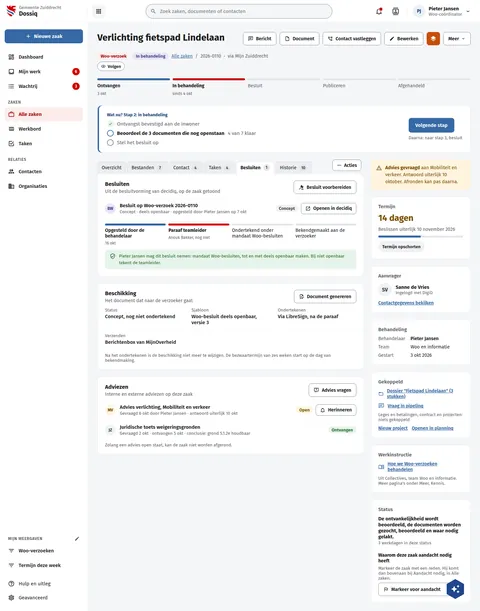
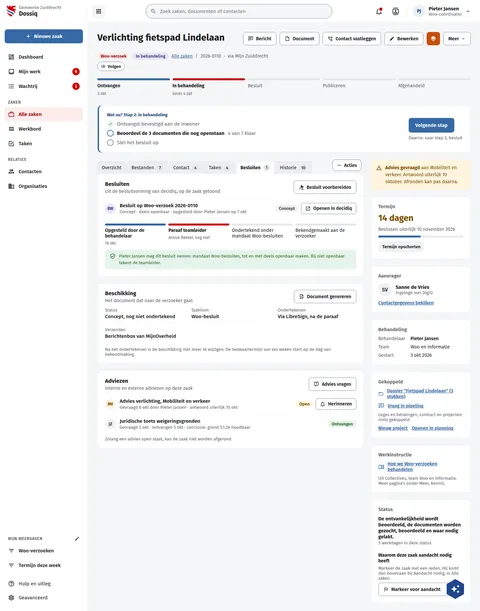
board(dossiq): DqZaakBesluiten names the decision letter's template as the case type declares it
The Beschikking card's Sjabloon reads the template the case type declares for
its decision letter ("Woo-besluit"). The app records no other template on
the letter, and renaming the declaration would mislabel every Woo decision,
so the board draws "Woo-besluit" instead of "Woo-besluit deels openbaar,
versie 3" (r44: Beschikking 261 vs 241.7, Adviezen y -20.1).

Assisted-by: ClaudeCode:claude-opus-5-5

Changed region(s): [[0.2188, 0.5286, 0.6875, 0.7463], [0.5938, 0.6219, 0.75, 0.7152], [0.4688, 0.4975, 0.5312, 0.5286]]

diff --git a/preview/screens/boards/DqZaakBesluiten.html b/preview/screens/boards/DqZaakBesluiten.html
@@ -228,7 +228,7 @@ a{color:var(--sc-primary, #3669a5)}a:hover{color:var(--sc-primary-deep, #234a78)
               <button type="button" aria-haspopup="menu" style="flex: none; align-self: flex-start; margin: 0 8px 8px 0; display: inline-flex; align-items: center; gap: 6px; min-height: 34px; padding: 0 12px; border: 1px solid var(--sc-work-field, #828a95); border-radius: 8px; background: #ffffff; font: 600 14px var(--sc-font, 'Fira Sans'), sans-serif; color: var(--sc-work-ink, #1b1c1d)"><svg width="16" height="16" viewbox="0 0 24 24" fill="currentColor"><path d="M16,12A2,2 0 0,1 18,10A2,2 0 0,1 20,12A2,2 0 0,1 18,14A2,2 0 0,1 16,12M10,12A2,2 0 0,1 12,10A2,2 0 0,1 14,12A2,2 0 0,1 12,14A2,2 0 0,1 10,12M4,12A2,2 0 0,1 6,10A2,2 0 0,1 8,12A2,2 0 0,1 6,14A2,2 0 0,1 4,12Z"></path></svg>Acties</button>
             </div>
             <section aria-label="Besluiten" style="background: #ffffff; border: 1px solid var(--sc-work-line, #e4e6ea); border-radius: 0 12px 12px 12px; padding: 20px 22px; display: flex; flex-direction: column; gap: 12px"><div style="display: flex; flex-wrap: wrap; justify-content: space-between; align-items: flex-start; gap: 10px 16px"><div style="flex: 1 1 260px; min-width: 0; display: flex; flex-direction: column; gap: 3px"><h2 style="margin: 0; font-size: 17px; font-weight: 700">Besluiten</h2><span style="font-size: 14px; color: var(--sc-work-muted, #5e6168)">Uit de besluitvorming van decidiq, op de zaak getoond</span></div><div style="flex: none; display: flex; flex-wrap: wrap; gap: 8px"><button type="button" style="display: inline-flex; align-items: center; gap: 8px; height: 40px; padding: 0 14px; border-radius: 8px; font: 600 14px var(--sc-font, 'Fira Sans'), sans-serif; white-space: nowrap; border: 1px solid var(--sc-work-field, #828a95); background: #ffffff; color: var(--sc-work-ink, #1b1c1d)"><svg width="16" height="16" viewbox="0 0 24 24" fill="currentColor" aria-hidden="true"><path d="M2.3,20.28L11.9,10.68L10.5,9.26L9.78,9.97C9.39,10.36 8.76,10.36 8.37,9.97L7.66,9.26C7.27,8.87 7.27,8.24 7.66,7.85L13.32,2.19C13.71,1.8 14.34,1.8 14.73,2.19L15.44,2.9C15.83,3.29 15.83,3.92 15.44,4.31L14.73,5L16.15,6.43C16.54,6.04 17.17,6.04 17.56,6.43C17.95,6.82 17.95,7.46 17.56,7.85L18.97,9.26L19.68,8.55C20.07,8.16 20.71,8.16 21.1,8.55L21.8,9.26C22.19,9.65 22.19,10.29 21.8,10.68L16.15,16.33C15.76,16.72 15.12,16.72 14.73,16.33L14.03,15.63C13.63,15.24 13.63,14.6 14.03,14.21L14.73,13.5L13.32,12.09L3.71,21.7C3.32,22.09 2.69,22.09 2.3,21.7C1.91,21.31 1.91,20.67 2.3,20.28M20,19A2,2 0 0,1 22,21V22H12V21A2,2 0 0,1 14,19H20Z"></path></svg>Besluit voorbereiden</button></div></div><ul style="margin: 0; padding: 0; list-style: none; display: flex; flex-direction: column"><li style="display: flex; flex-wrap: wrap; gap: 8px 16px; align-items: center; padding: 12px 0; border-top: 1px solid var(--sc-work-soft, #eef0f3)"><span style="flex: 1 1 260px; min-width: 0; display: flex; gap: 12px; align-items: center"><span aria-hidden="true" style="width: 32px; height: 32px; flex: none; border-radius: 16px; background: #e8e6f6; color: #4a3f8f; display: inline-flex; align-items: center; justify-content: center; font-size: 12px; font-weight: 700">BW</span><span style="display: flex; flex-direction: column; gap: 2px; min-width: 0"><strong style="font-size: 15px; font-weight: 600">Besluit op Woo-verzoek 2026-0110</strong><span style="font-size: 13px; color: var(--sc-work-muted, #5e6168)">Concept · deels openbaar · opgesteld door Pieter Jansen op 7 okt</span></span></span><span style="flex: none; display: flex; flex-wrap: wrap; gap: 8px; align-items: center"><span style="display: inline-block; padding: 3px 10px; border-radius: 12px; background: var(--sc-work-chip, #f0f1f3); color: var(--sc-work-text, #3d4047); font-size: 13px; font-weight: 600; white-space: nowrap">Concept</span><button type="button" style="display: inline-flex; align-items: center; gap: 8px; height: 34px; padding: 0 12px; border-radius: 8px; font: 600 14px var(--sc-font, 'Fira Sans'), sans-serif; white-space: nowrap; border: 1px solid var(--sc-work-field, #828a95); background: #ffffff; color: var(--sc-work-ink, #1b1c1d)"><svg width="16" height="16" viewbox="0 0 24 24" fill="currentColor" aria-hidden="true"><path d="M14,3V5H17.59L7.76,14.83L9.17,16.24L19,6.41V10H21V3M19,19H5V5H12V3H5C3.89,3 3,3.9 3,5V19A2,2 0 0,0 5,21H19A2,2 0 0,0 21,19V12H19V19Z"></path></svg>Openen in decidiq</button></span></li></ul><ol aria-label="Route van het besluit" style="margin: 4px 0 0; padding: 0; list-style: none; display: grid; grid-template-columns: repeat(auto-fit, minmax(150px, 1fr)); gap: 8px"><li style="display: flex; flex-direction: column; gap: 6px"><span style="height: 6px; border-radius: 3px; background: var(--sc-primary, #3669a5)"></span><span style="font-size: 14px; font-weight: 600">Opgesteld door de behandelaar</span><span style="font-size: 12px; color: var(--sc-work-muted, #5e6168)">16 okt</span></li><li style="display: flex; flex-direction: column; gap: 6px"><span style="height: 6px; border-radius: 3px; background: var(--sc-accent, #cc0000)"></span><span style="font-size: 14px; font-weight: 700">Paraaf teamleider</span><span style="font-size: 12px; color: var(--sc-work-muted, #5e6168)">Anouk Bakker, nog niet</span></li><li style="display: flex; flex-direction: column; gap: 6px"><span style="height: 6px; border-radius: 3px; background: var(--sc-work-line, #e4e6ea)"></span><span style="font-size: 14px; font-weight: 400">Ondertekend onder mandaat Woo-besluiten</span></li><li style="display: flex; flex-direction: column; gap: 6px"><span style="height: 6px; border-radius: 3px; background: var(--sc-work-line, #e4e6ea)"></span><span style="font-size: 14px; font-weight: 400">Bekendgemaakt aan de verzoeker</span></li></ol><div style="display: flex; gap: 10px; align-items: flex-start; padding: 10px 14px; border-radius: 10px; background: #e7f3ea; color: #1e6b2a; font-size: 13px; line-height: 1.5"><svg width="18" height="18" viewbox="0 0 24 24" fill="currentColor" aria-hidden="true" style="flex: none; margin-top: 1px"><path d="M21,11C21,16.55 17.16,21.74 12,23C6.84,21.74 3,16.55 3,11V5L12,1L21,5V11M12,21C15.75,20 19,15.54 19,11.22V6.3L12,3.18L5,6.3V11.22C5,15.54 8.25,20 12,21M10,17L6,13L7.41,11.59L10,14.17L16.59,7.58L18,9"></path></svg><span>Pieter Jansen mag dit besluit nemen: mandaat Woo-besluiten, tot en met deels openbaar maken. Bij niet openbaar tekent de teamleider.</span></div></section>
-            <section style="background: #ffffff; border: 1px solid var(--sc-work-line, #e4e6ea); border-radius: 12px; padding: 20px 22px; display: flex; flex-direction: column; gap: 12px"><div style="display: flex; flex-wrap: wrap; justify-content: space-between; align-items: flex-start; gap: 10px 16px"><div style="flex: 1 1 260px; min-width: 0; display: flex; flex-direction: column; gap: 3px"><h2 style="margin: 0; font-size: 17px; font-weight: 700">Beschikking</h2><span style="font-size: 14px; color: var(--sc-work-muted, #5e6168)">Het document dat naar de verzoeker gaat</span></div><div style="flex: none; display: flex; flex-wrap: wrap; gap: 8px"><button type="button" style="display: inline-flex; align-items: center; gap: 8px; height: 40px; padding: 0 14px; border-radius: 8px; font: 600 14px var(--sc-font, 'Fira Sans'), sans-serif; white-space: nowrap; border: 1px solid var(--sc-work-field, #828a95); background: #ffffff; color: var(--sc-work-ink, #1b1c1d)"><svg width="16" height="16" viewbox="0 0 24 24" fill="currentColor" aria-hidden="true"><path d="M8,12H16V14H8V12M10,20H6V4H13V9H18V12.1L20,10.1V8L14,2H6A2,2 0 0,0 4,4V20A2,2 0 0,0 6,22H10V20M8,18H12.1L13,17.1V16H8V18M20.2,13C20.3,13 20.5,13.1 20.6,13.2L21.9,14.5C22.1,14.7 22.1,15.1 21.9,15.3L20.9,16.3L18.8,14.2L19.8,13.2C19.9,13.1 20,13 20.2,13M20.2,16.9L14.1,23H12V20.9L18.1,14.8L20.2,16.9Z"></path></svg>Document genereren</button></div></div><dl style="margin: 0; display: grid; grid-template-columns: repeat(auto-fit, minmax(200px, 1fr)); gap: 12px 24px; font-size: 15px"><div style="display: flex; flex-direction: column; gap: 3px; padding-bottom: 10px; border-bottom: 1px solid var(--sc-work-soft, #eef0f3)"><dt style="font-size: 13px; color: var(--sc-work-muted, #5e6168)">Status</dt><dd style="margin: 0; font-weight: 500">Concept, nog niet ondertekend</dd></div><div style="display: flex; flex-direction: column; gap: 3px; padding-bottom: 10px; border-bottom: 1px solid var(--sc-work-soft, #eef0f3)"><dt style="font-size: 13px; color: var(--sc-work-muted, #5e6168)">Sjabloon</dt><dd style="margin: 0; font-weight: 500">Woo-besluit deels openbaar, versie 3</dd></div><div style="display: flex; flex-direction: column; gap: 3px; padding-bottom: 10px; border-bottom: 1px solid var(--sc-work-soft, #eef0f3)"><dt style="font-size: 13px; color: var(--sc-work-muted, #5e6168)">Ondertekenen</dt><dd style="margin: 0; font-weight: 500">Via LibreSign, na de paraaf</dd></div><div style="display: flex; flex-direction: column; gap: 3px; padding-bottom: 10px; border-bottom: 1px solid var(--sc-work-soft, #eef0f3)"><dt style="font-size: 13px; color: var(--sc-work-muted, #5e6168)">Verzenden</dt><dd style="margin: 0; font-weight: 500">Berichtenbox van MijnOverheid</dd></div></dl><span style="font-size: 13px; color: var(--sc-work-muted, #5e6168)">Na het ondertekenen is de beschikking niet meer te wijzigen. De bezwaartermijn van zes weken start op de dag van bekendmaking.</span></section>
+            <section style="background: #ffffff; border: 1px solid var(--sc-work-line, #e4e6ea); border-radius: 12px; padding: 20px 22px; display: flex; flex-direction: column; gap: 12px"><div style="display: flex; flex-wrap: wrap; justify-content: space-between; align-items: flex-start; gap: 10px 16px"><div style="flex: 1 1 260px; min-width: 0; display: flex; flex-direction: column; gap: 3px"><h2 style="margin: 0; font-size: 17px; font-weight: 700">Beschikking</h2><span style="font-size: 14px; color: var(--sc-work-muted, #5e6168)">Het document dat naar de verzoeker gaat</span></div><div style="flex: none; display: flex; flex-wrap: wrap; gap: 8px"><button type="button" style="display: inline-flex; align-items: center; gap: 8px; height: 40px; padding: 0 14px; border-radius: 8px; font: 600 14px var(--sc-font, 'Fira Sans'), sans-serif; white-space: nowrap; border: 1px solid var(--sc-work-field, #828a95); background: #ffffff; color: var(--sc-work-ink, #1b1c1d)"><svg width="16" height="16" viewbox="0 0 24 24" fill="currentColor" aria-hidden="true"><path d="M8,12H16V14H8V12M10,20H6V4H13V9H18V12.1L20,10.1V8L14,2H6A2,2 0 0,0 4,4V20A2,2 0 0,0 6,22H10V20M8,18H12.1L13,17.1V16H8V18M20.2,13C20.3,13 20.5,13.1 20.6,13.2L21.9,14.5C22.1,14.7 22.1,15.1 21.9,15.3L20.9,16.3L18.8,14.2L19.8,13.2C19.9,13.1 20,13 20.2,13M20.2,16.9L14.1,23H12V20.9L18.1,14.8L20.2,16.9Z"></path></svg>Document genereren</button></div></div><dl style="margin: 0; display: grid; grid-template-columns: repeat(auto-fit, minmax(200px, 1fr)); gap: 12px 24px; font-size: 15px"><div style="display: flex; flex-direction: column; gap: 3px; padding-bottom: 10px; border-bottom: 1px solid var(--sc-work-soft, #eef0f3)"><dt style="font-size: 13px; color: var(--sc-work-muted, #5e6168)">Status</dt><dd style="margin: 0; font-weight: 500">Concept, nog niet ondertekend</dd></div><div style="display: flex; flex-direction: column; gap: 3px; padding-bottom: 10px; border-bottom: 1px solid var(--sc-work-soft, #eef0f3)"><dt style="font-size: 13px; color: var(--sc-work-muted, #5e6168)">Sjabloon</dt><dd style="margin: 0; font-weight: 500">Woo-besluit</dd></div><div style="display: flex; flex-direction: column; gap: 3px; padding-bottom: 10px; border-bottom: 1px solid var(--sc-work-soft, #eef0f3)"><dt style="font-size: 13px; color: var(--sc-work-muted, #5e6168)">Ondertekenen</dt><dd style="margin: 0; font-weight: 500">Via LibreSign, na de paraaf</dd></div><div style="display: flex; flex-direction: column; gap: 3px; padding-bottom: 10px; border-bottom: 1px solid var(--sc-work-soft, #eef0f3)"><dt style="font-size: 13px; color: var(--sc-work-muted, #5e6168)">Verzenden</dt><dd style="margin: 0; font-weight: 500">Berichtenbox van MijnOverheid</dd></div></dl><span style="font-size: 13px; color: var(--sc-work-muted, #5e6168)">Na het ondertekenen is de beschikking niet meer te wijzigen. De bezwaartermijn van zes weken start op de dag van bekendmaking.</span></section>
             <section style="background: #ffffff; border: 1px solid var(--sc-work-line, #e4e6ea); border-radius: 12px; padding: 20px 22px; display: flex; flex-direction: column; gap: 8px"><div style="display: flex; flex-wrap: wrap; justify-content: space-between; align-items: flex-start; gap: 10px 16px"><div style="flex: 1 1 260px; min-width: 0; display: flex; flex-direction: column; gap: 3px"><h2 style="margin: 0; font-size: 17px; font-weight: 700">Adviezen</h2><span style="font-size: 14px; color: var(--sc-work-muted, #5e6168)">Interne en externe adviezen op deze zaak</span></div><div style="flex: none; display: flex; flex-wrap: wrap; gap: 8px"><button type="button" style="display: inline-flex; align-items: center; gap: 8px; height: 40px; padding: 0 14px; border-radius: 8px; font: 600 14px var(--sc-font, 'Fira Sans'), sans-serif; white-space: nowrap; border: 1px solid var(--sc-work-field, #828a95); background: #ffffff; color: var(--sc-work-ink, #1b1c1d)"><svg width="16" height="16" viewbox="0 0 24 24" fill="currentColor" aria-hidden="true"><path d="M4,2A2,2 0 0,0 2,4V16A2,2 0 0,0 4,18H8V21A1,1 0 0,0 9,22H9.5V22C9.75,22 10,21.9 10.2,21.71L13.9,18H20A2,2 0 0,0 22,16V4C22,2.89 21.1,2 20,2H4M4,4H20V16H13.08L10,19.08V16H4V4M12.19,5.5C11.3,5.5 10.59,5.68 10.05,6.04C9.5,6.4 9.22,7 9.27,7.69C0.21,7.69 6.57,7.69 11.24,7.69C11.24,7.41 11.34,7.2 11.5,7.06C11.7,6.92 11.92,6.85 12.19,6.85C12.5,6.85 12.77,6.93 12.95,7.11C13.13,7.28 13.22,7.5 13.22,7.8C13.22,8.08 13.14,8.33 13,8.54C12.83,8.76 12.62,8.94 12.36,9.08C11.84,9.4 11.5,9.68 11.29,9.92C11.1,10.16 11,10.5 11,11H13C13,10.72 13.05,10.5 13.14,10.32C13.23,10.15 13.4,10 13.66,9.85C14.12,9.64 14.5,9.36 14.79,9C15.08,8.63 15.23,8.24 15.23,7.8C15.23,7.1 14.96,6.54 14.42,6.12C13.88,5.71 13.13,5.5 12.19,5.5M11,12V14H13V12H11Z"></path></svg>Advies vragen</button></div></div><ul style="margin: 0; padding: 0; list-style: none; display: flex; flex-direction: column"><li style="display: flex; flex-wrap: wrap; gap: 8px 16px; align-items: center; padding: 12px 0; border-top: 1px solid var(--sc-work-soft, #eef0f3)"><span style="flex: 1 1 260px; min-width: 0; display: flex; gap: 12px; align-items: center"><span aria-hidden="true" style="width: 32px; height: 32px; flex: none; border-radius: 16px; background: #fff4de; color: #7a4f00; display: inline-flex; align-items: center; justify-content: center; font-size: 12px; font-weight: 700">MV</span><span style="display: flex; flex-direction: column; gap: 2px; min-width: 0"><strong style="font-size: 15px; font-weight: 600">Advies verlichting, Mobiliteit en verkeer</strong><span style="font-size: 13px; color: var(--sc-work-muted, #5e6168)">Gevraagd 6 okt door Pieter Jansen · antwoord uiterlijk 10 okt</span></span></span><span style="flex: none; display: flex; flex-wrap: wrap; gap: 8px; align-items: center"><span style="display: inline-block; padding: 3px 10px; border-radius: 12px; background: #fff4de; color: #7a4f00; font-size: 13px; font-weight: 600; white-space: nowrap">Open</span><button type="button" style="display: inline-flex; align-items: center; gap: 8px; height: 34px; padding: 0 12px; border-radius: 8px; font: 600 14px var(--sc-font, 'Fira Sans'), sans-serif; white-space: nowrap; border: 1px solid var(--sc-work-field, #828a95); background: #ffffff; color: var(--sc-work-ink, #1b1c1d)"><svg width="16" height="16" viewbox="0 0 24 24" fill="currentColor" aria-hidden="true"><path d="M10 21H14C14 22.1 13.1 23 12 23S10 22.1 10 21M21 19V20H3V19L5 17V11C5 7.9 7 5.2 10 4.3V4C10 2.9 10.9 2 12 2S14 2.9 14 4V4.3C17 5.2 19 7.9 19 11V17L21 19M17 11C17 8.2 14.8 6 12 6S7 8.2 7 11V18H17V11Z"></path></svg>Herinneren</button></span></li><li style="display: flex; flex-wrap: wrap; gap: 8px 16px; align-items: center; padding: 12px 0; border-top: 1px solid var(--sc-work-soft, #eef0f3)"><span style="flex: 1 1 260px; min-width: 0; display: flex; gap: 12px; align-items: center"><span aria-hidden="true" style="width: 32px; height: 32px; flex: none; border-radius: 16px; background: var(--sc-work-chip, #f0f1f3); color: var(--sc-work-text, #3d4047); display: inline-flex; align-items: center; justify-content: center; font-size: 12px; font-weight: 700">JZ</span><span style="display: flex; flex-direction: column; gap: 2px; min-width: 0"><strong style="font-size: 15px; font-weight: 600">Juridische toets weigeringsgronden</strong><span style="font-size: 13px; color: var(--sc-work-muted, #5e6168)">Gevraagd 2 okt · ontvangen 5 okt · conclusie: grond 5.1.2e houdbaar</span></span></span><span style="flex: none; display: flex; flex-wrap: wrap; gap: 8px; align-items: center"><span style="display: inline-block; padding: 3px 10px; border-radius: 12px; background: #e7f3ea; color: #1e6b2a; font-size: 13px; font-weight: 600; white-space: nowrap">Ontvangen</span></span></li></ul><span style="font-size: 13px; color: var(--sc-work-muted, #5e6168)">Zolang een advies open staat, kan de zaak niet worden afgerond.</span></section>
           </div>
 

diff --git a/screens-src/zuiddrecht/DqZaakBesluiten.dc.html b/screens-src/zuiddrecht/DqZaakBesluiten.dc.html
@@ -76,7 +76,7 @@ a{color:#3669a5}a:hover{color:#234a78}
               <button type="button" aria-haspopup="menu" style="flex: none; align-self: flex-start; margin: 0 8px 8px 0; display: inline-flex; align-items: center; gap: 6px; min-height: 34px; padding: 0 12px; border: 1px solid #828a95; border-radius: 8px; background: #ffffff; font: 600 14px 'Fira Sans', sans-serif; color: #1b1c1d"><svg width="16" height="16" viewBox="0 0 24 24" fill="currentColor"><path d="M16,12A2,2 0 0,1 18,10A2,2 0 0,1 20,12A2,2 0 0,1 18,14A2,2 0 0,1 16,12M10,12A2,2 0 0,1 12,10A2,2 0 0,1 14,12A2,2 0 0,1 12,14A2,2 0 0,1 10,12M4,12A2,2 0 0,1 6,10A2,2 0 0,1 8,12A2,2 0 0,1 6,14A2,2 0 0,1 4,12Z"></path></svg>Acties</button>
             </div>
             <section aria-label="Besluiten" style="background: #ffffff; border: 1px solid #e4e6ea; border-radius: 0 12px 12px 12px; padding: 20px 22px; display: flex; flex-direction: column; gap: 12px"><div style="display: flex; flex-wrap: wrap; justify-content: space-between; align-items: flex-start; gap: 10px 16px"><div style="flex: 1 1 260px; min-width: 0; display: flex; flex-direction: column; gap: 3px"><h2 style="margin: 0; font-size: 17px; font-weight: 700">Besluiten</h2><span style="font-size: 14px; color: #5e6168">Uit de besluitvorming van decidiq, op de zaak getoond</span></div><div style="flex: none; display: flex; flex-wrap: wrap; gap: 8px"><button type="button" style="display: inline-flex; align-items: center; gap: 8px; height: 40px; padding: 0 14px; border-radius: 8px; font: 600 14px 'Fira Sans', sans-serif; white-space: nowrap; border: 1px solid #828a95; background: #ffffff; color: #1b1c1d"><svg width="16" height="16" viewBox="0 0 24 24" fill="currentColor" aria-hidden="true"><path d="M2.3,20.28L11.9,10.68L10.5,9.26L9.78,9.97C9.39,10.36 8.76,10.36 8.37,9.97L7.66,9.26C7.27,8.87 7.27,8.24 7.66,7.85L13.32,2.19C13.71,1.8 14.34,1.8 14.73,2.19L15.44,2.9C15.83,3.29 15.83,3.92 15.44,4.31L14.73,5L16.15,6.43C16.54,6.04 17.17,6.04 17.56,6.43C17.95,6.82 17.95,7.46 17.56,7.85L18.97,9.26L19.68,8.55C20.07,8.16 20.71,8.16 21.1,8.55L21.8,9.26C22.19,9.65 22.19,10.29 21.8,10.68L16.15,16.33C15.76,16.72 15.12,16.72 14.73,16.33L14.03,15.63C13.63,15.24 13.63,14.6 14.03,14.21L14.73,13.5L13.32,12.09L3.71,21.7C3.32,22.09 2.69,22.09 2.3,21.7C1.91,21.31 1.91,20.67 2.3,20.28M20,19A2,2 0 0,1 22,21V22H12V21A2,2 0 0,1 14,19H20Z"></path></svg>Besluit voorbereiden</button></div></div><ul style="margin: 0; padding: 0; list-style: none; display: flex; flex-direction: column"><li style="display: flex; flex-wrap: wrap; gap: 8px 16px; align-items: center; padding: 12px 0; border-top: 1px solid #eef0f3"><span style="flex: 1 1 260px; min-width: 0; display: flex; gap: 12px; align-items: center"><span aria-hidden="true" style="width: 32px; height: 32px; flex: none; border-radius: 16px; background: #e8e6f6; color: #4a3f8f; display: inline-flex; align-items: center; justify-content: center; font-size: 12px; font-weight: 700">BW</span><span style="display: flex; flex-direction: column; gap: 2px; min-width: 0"><strong style="font-size: 15px; font-weight: 600">Besluit op Woo-verzoek 2026-0110</strong><span style="font-size: 13px; color: #5e6168">Concept · deels openbaar · opgesteld door Pieter Jansen op 7 okt</span></span></span><span style="flex: none; display: flex; flex-wrap: wrap; gap: 8px; align-items: center"><span style="display: inline-block; padding: 3px 10px; border-radius: 12px; background: #f0f1f3; color: #3d4047; font-size: 13px; font-weight: 600; white-space: nowrap">Concept</span><button type="button" style="display: inline-flex; align-items: center; gap: 8px; height: 34px; padding: 0 12px; border-radius: 8px; font: 600 14px 'Fira Sans', sans-serif; white-space: nowrap; border: 1px solid #828a95; background: #ffffff; color: #1b1c1d"><svg width="16" height="16" viewBox="0 0 24 24" fill="currentColor" aria-hidden="true"><path d="M14,3V5H17.59L7.76,14.83L9.17,16.24L19,6.41V10H21V3M19,19H5V5H12V3H5C3.89,3 3,3.9 3,5V19A2,2 0 0,0 5,21H19A2,2 0 0,0 21,19V12H19V19Z"></path></svg>Openen in decidiq</button></span></li></ul><ol aria-label="Route van het besluit" style="margin: 4px 0 0; padding: 0; list-style: none; display: grid; grid-template-columns: repeat(auto-fit, minmax(150px, 1fr)); gap: 8px"><li style="display: flex; flex-direction: column; gap: 6px"><span style="height: 6px; border-radius: 3px; background: #3669a5"></span><span style="font-size: 14px; font-weight: 600">Opgesteld door de behandelaar</span><span style="font-size: 12px; color: #5e6168">16 okt</span></li><li style="display: flex; flex-direction: column; gap: 6px"><span style="height: 6px; border-radius: 3px; background: #cc0000"></span><span style="font-size: 14px; font-weight: 700">Paraaf teamleider</span><span style="font-size: 12px; color: #5e6168">Anouk Bakker, nog niet</span></li><li style="display: flex; flex-direction: column; gap: 6px"><span style="height: 6px; border-radius: 3px; background: #e4e6ea"></span><span style="font-size: 14px; font-weight: 400">Ondertekend onder mandaat Woo-besluiten</span></li><li style="display: flex; flex-direction: column; gap: 6px"><span style="height: 6px; border-radius: 3px; background: #e4e6ea"></span><span style="font-size: 14px; font-weight: 400">Bekendgemaakt aan de verzoeker</span></li></ol><div style="display: flex; gap: 10px; align-items: flex-start; padding: 10px 14px; border-radius: 10px; background: #e7f3ea; color: #1e6b2a; font-size: 13px; line-height: 1.5"><svg width="18" height="18" viewBox="0 0 24 24" fill="currentColor" aria-hidden="true" style="flex: none; margin-top: 1px"><path d="M21,11C21,16.55 17.16,21.74 12,23C6.84,21.74 3,16.55 3,11V5L12,1L21,5V11M12,21C15.75,20 19,15.54 19,11.22V6.3L12,3.18L5,6.3V11.22C5,15.54 8.25,20 12,21M10,17L6,13L7.41,11.59L10,14.17L16.59,7.58L18,9"></path></svg><span>Pieter Jansen mag dit besluit nemen: mandaat Woo-besluiten, tot en met deels openbaar maken. Bij niet openbaar tekent de teamleider.</span></div></section>
-            <section style="background: #ffffff; border: 1px solid #e4e6ea; border-radius: 12px; padding: 20px 22px; display: flex; flex-direction: column; gap: 12px"><div style="display: flex; flex-wrap: wrap; justify-content: space-between; align-items: flex-start; gap: 10px 16px"><div style="flex: 1 1 260px; min-width: 0; display: flex; flex-direction: column; gap: 3px"><h2 style="margin: 0; font-size: 17px; font-weight: 700">Beschikking</h2><span style="font-size: 14px; color: #5e6168">Het document dat naar de verzoeker gaat</span></div><div style="flex: none; display: flex; flex-wrap: wrap; gap: 8px"><button type="button" style="display: inline-flex; align-items: center; gap: 8px; height: 40px; padding: 0 14px; border-radius: 8px; font: 600 14px 'Fira Sans', sans-serif; white-space: nowrap; border: 1px solid #828a95; background: #ffffff; color: #1b1c1d"><svg width="16" height="16" viewBox="0 0 24 24" fill="currentColor" aria-hidden="true"><path d="M8,12H16V14H8V12M10,20H6V4H13V9H18V12.1L20,10.1V8L14,2H6A2,2 0 0,0 4,4V20A2,2 0 0,0 6,22H10V20M8,18H12.1L13,17.1V16H8V18M20.2,13C20.3,13 20.5,13.1 20.6,13.2L21.9,14.5C22.1,14.7 22.1,15.1 21.9,15.3L20.9,16.3L18.8,14.2L19.8,13.2C19.9,13.1 20,13 20.2,13M20.2,16.9L14.1,23H12V20.9L18.1,14.8L20.2,16.9Z"></path></svg>Document genereren</button></div></div><dl style="margin: 0; display: grid; grid-template-columns: repeat(auto-fit, minmax(200px, 1fr)); gap: 12px 24px; font-size: 15px"><div style="display: flex; flex-direction: column; gap: 3px; padding-bottom: 10px; border-bottom: 1px solid #eef0f3"><dt style="font-size: 13px; color: #5e6168">Status</dt><dd style="margin: 0; font-weight: 500">Concept, nog niet ondertekend</dd></div><div style="display: flex; flex-direction: column; gap: 3px; padding-bottom: 10px; border-bottom: 1px solid #eef0f3"><dt style="font-size: 13px; color: #5e6168">Sjabloon</dt><dd style="margin: 0; font-weight: 500">Woo-besluit deels openbaar, versie 3</dd></div><div style="display: flex; flex-direction: column; gap: 3px; padding-bottom: 10px; border-bottom: 1px solid #eef0f3"><dt style="font-size: 13px; color: #5e6168">Ondertekenen</dt><dd style="margin: 0; font-weight: 500">Via LibreSign, na de paraaf</dd></div><div style="display: flex; flex-direction: column; gap: 3px; padding-bottom: 10px; border-bottom: 1px solid #eef0f3"><dt style="font-size: 13px; color: #5e6168">Verzenden</dt><dd style="margin: 0; font-weight: 500">Berichtenbox van MijnOverheid</dd></div></dl><span style="font-size: 13px; color: #5e6168">Na het ondertekenen is de beschikking niet meer te wijzigen. De bezwaartermijn van zes weken start op de dag van bekendmaking.</span></section>
+            <section style="background: #ffffff; border: 1px solid #e4e6ea; border-radius: 12px; padding: 20px 22px; display: flex; flex-direction: column; gap: 12px"><div style="display: flex; flex-wrap: wrap; justify-content: space-between; align-items: flex-start; gap: 10px 16px"><div style="flex: 1 1 260px; min-width: 0; display: flex; flex-direction: column; gap: 3px"><h2 style="margin: 0; font-size: 17px; font-weight: 700">Beschikking</h2><span style="font-size: 14px; color: #5e6168">Het document dat naar de verzoeker gaat</span></div><div style="flex: none; display: flex; flex-wrap: wrap; gap: 8px"><button type="button" style="display: inline-flex; align-items: center; gap: 8px; height: 40px; padding: 0 14px; border-radius: 8px; font: 600 14px 'Fira Sans', sans-serif; white-space: nowrap; border: 1px solid #828a95; background: #ffffff; color: #1b1c1d"><svg width="16" height="16" viewBox="0 0 24 24" fill="currentColor" aria-hidden="true"><path d="M8,12H16V14H8V12M10,20H6V4H13V9H18V12.1L20,10.1V8L14,2H6A2,2 0 0,0 4,4V20A2,2 0 0,0 6,22H10V20M8,18H12.1L13,17.1V16H8V18M20.2,13C20.3,13 20.5,13.1 20.6,13.2L21.9,14.5C22.1,14.7 22.1,15.1 21.9,15.3L20.9,16.3L18.8,14.2L19.8,13.2C19.9,13.1 20,13 20.2,13M20.2,16.9L14.1,23H12V20.9L18.1,14.8L20.2,16.9Z"></path></svg>Document genereren</button></div></div><dl style="margin: 0; display: grid; grid-template-columns: repeat(auto-fit, minmax(200px, 1fr)); gap: 12px 24px; font-size: 15px"><div style="display: flex; flex-direction: column; gap: 3px; padding-bottom: 10px; border-bottom: 1px solid #eef0f3"><dt style="font-size: 13px; color: #5e6168">Status</dt><dd style="margin: 0; font-weight: 500">Concept, nog niet ondertekend</dd></div><div style="display: flex; flex-direction: column; gap: 3px; padding-bottom: 10px; border-bottom: 1px solid #eef0f3"><dt style="font-size: 13px; color: #5e6168">Sjabloon</dt><dd style="margin: 0; font-weight: 500">Woo-besluit</dd></div><div style="display: flex; flex-direction: column; gap: 3px; padding-bottom: 10px; border-bottom: 1px solid #eef0f3"><dt style="font-size: 13px; color: #5e6168">Ondertekenen</dt><dd style="margin: 0; font-weight: 500">Via LibreSign, na de paraaf</dd></div><div style="display: flex; flex-direction: column; gap: 3px; padding-bottom: 10px; border-bottom: 1px solid #eef0f3"><dt style="font-size: 13px; color: #5e6168">Verzenden</dt><dd style="margin: 0; font-weight: 500">Berichtenbox van MijnOverheid</dd></div></dl><span style="font-size: 13px; color: #5e6168">Na het ondertekenen is de beschikking niet meer te wijzigen. De bezwaartermijn van zes weken start op de dag van bekendmaking.</span></section>
             <section style="background: #ffffff; border: 1px solid #e4e6ea; border-radius: 12px; padding: 20px 22px; display: flex; flex-direction: column; gap: 8px"><div style="display: flex; flex-wrap: wrap; justify-content: space-between; align-items: flex-start; gap: 10px 16px"><div style="flex: 1 1 260px; min-width: 0; display: flex; flex-direction: column; gap: 3px"><h2 style="margin: 0; font-size: 17px; font-weight: 700">Adviezen</h2><span style="font-size: 14px; color: #5e6168">Interne en externe adviezen op deze zaak</span></div><div style="flex: none; display: flex; flex-wrap: wrap; gap: 8px"><button type="button" style="display: inline-flex; align-items: center; gap: 8px; height: 40px; padding: 0 14px; border-radius: 8px; font: 600 14px 'Fira Sans', sans-serif; white-space: nowrap; border: 1px solid #828a95; background: #ffffff; color: #1b1c1d"><svg width="16" height="16" viewBox="0 0 24 24" fill="currentColor" aria-hidden="true"><path d="M4,2A2,2 0 0,0 2,4V16A2,2 0 0,0 4,18H8V21A1,1 0 0,0 9,22H9.5V22C9.75,22 10,21.9 10.2,21.71L13.9,18H20A2,2 0 0,0 22,16V4C22,2.89 21.1,2 20,2H4M4,4H20V16H13.08L10,19.08V16H4V4M12.19,5.5C11.3,5.5 10.59,5.68 10.05,6.04C9.5,6.4 9.22,7 9.27,7.69C0.21,7.69 6.57,7.69 11.24,7.69C11.24,7.41 11.34,7.2 11.5,7.06C11.7,6.92 11.92,6.85 12.19,6.85C12.5,6.85 12.77,6.93 12.95,7.11C13.13,7.28 13.22,7.5 13.22,7.8C13.22,8.08 13.14,8.33 13,8.54C12.83,8.76 12.62,8.94 12.36,9.08C11.84,9.4 11.5,9.68 11.29,9.92C11.1,10.16 11,10.5 11,11H13C13,10.72 13.05,10.5 13.14,10.32C13.23,10.15 13.4,10 13.66,9.85C14.12,9.64 14.5,9.36 14.79,9C15.08,8.63 15.23,8.24 15.23,7.8C15.23,7.1 14.96,6.54 14.42,6.12C13.88,5.71 13.13,5.5 12.19,5.5M11,12V14H13V12H11Z"></path></svg>Advies vragen</button></div></div><ul style="margin: 0; padding: 0; list-style: none; display: flex; flex-direction: column"><li style="display: flex; flex-wrap: wrap; gap: 8px 16px; align-items: center; padding: 12px 0; border-top: 1px solid #eef0f3"><span style="flex: 1 1 260px; min-width: 0; display: flex; gap: 12px; align-items: center"><span aria-hidden="true" style="width: 32px; height: 32px; flex: none; border-radius: 16px; background: #fff4de; color: #7a4f00; display: inline-flex; align-items: center; justify-content: center; font-size: 12px; font-weight: 700">MV</span><span style="display: flex; flex-direction: column; gap: 2px; min-width: 0"><strong style="font-size: 15px; font-weight: 600">Advies verlichting, Mobiliteit en verkeer</strong><span style="font-size: 13px; color: #5e6168">Gevraagd 6 okt door Pieter Jansen · antwoord uiterlijk 10 okt</span></span></span><span style="flex: none; display: flex; flex-wrap: wrap; gap: 8px; align-items: center"><span style="display: inline-block; padding: 3px 10px; border-radius: 12px; background: #fff4de; color: #7a4f00; font-size: 13px; font-weight: 600; white-space: nowrap">Open</span><button type="button" style="display: inline-flex; align-items: center; gap: 8px; height: 34px; padding: 0 12px; border-radius: 8px; font: 600 14px 'Fira Sans', sans-serif; white-space: nowrap; border: 1px solid #828a95; background: #ffffff; color: #1b1c1d"><svg width="16" height="16" viewBox="0 0 24 24" fill="currentColor" aria-hidden="true"><path d="M10 21H14C14 22.1 13.1 23 12 23S10 22.1 10 21M21 19V20H3V19L5 17V11C5 7.9 7 5.2 10 4.3V4C10 2.9 10.9 2 12 2S14 2.9 14 4V4.3C17 5.2 19 7.9 19 11V17L21 19M17 11C17 8.2 14.8 6 12 6S7 8.2 7 11V18H17V11Z"></path></svg>Herinneren</button></span></li><li style="display: flex; flex-wrap: wrap; gap: 8px 16px; align-items: center; padding: 12px 0; border-top: 1px solid #eef0f3"><span style="flex: 1 1 260px; min-width: 0; display: flex; gap: 12px; align-items: center"><span aria-hidden="true" style="width: 32px; height: 32px; flex: none; border-radius: 16px; background: #f0f1f3; color: #3d4047; display: inline-flex; align-items: center; justify-content: center; font-size: 12px; font-weight: 700">JZ</span><span style="display: flex; flex-direction: column; gap: 2px; min-width: 0"><strong style="font-size: 15px; font-weight: 600">Juridische toets weigeringsgronden</strong><span style="font-size: 13px; color: #5e6168">Gevraagd 2 okt · ontvangen 5 okt · conclusie: grond 5.1.2e houdbaar</span></span></span><span style="flex: none; display: flex; flex-wrap: wrap; gap: 8px; align-items: center"><span style="display: inline-block; padding: 3px 10px; border-radius: 12px; background: #e7f3ea; color: #1e6b2a; font-size: 13px; font-weight: 600; white-space: nowrap">Ontvangen</span></span></li></ul><span style="font-size: 13px; color: #5e6168">Zolang een advies open staat, kan de zaak niet worden afgerond.</span></section>
           </div>
 
